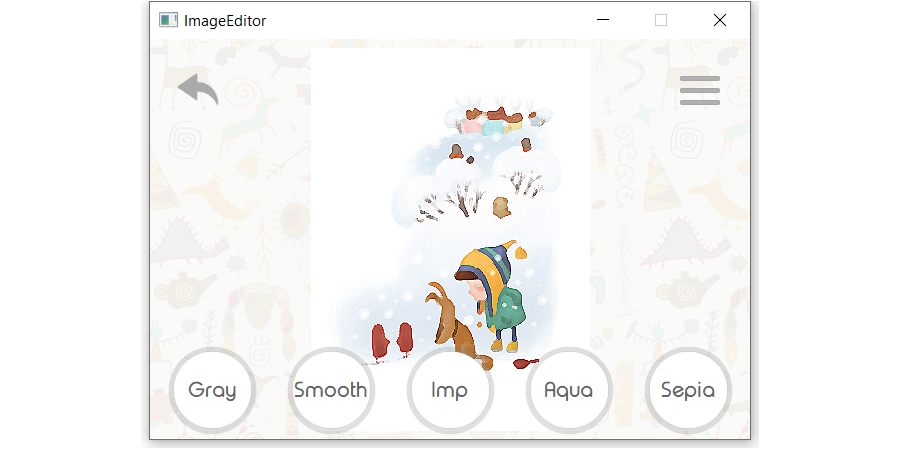
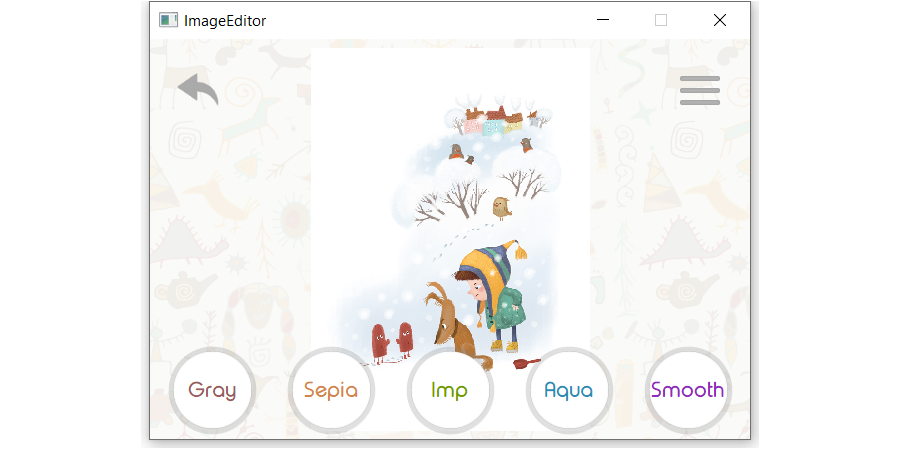
Screens and colors

diff --git a/Core/Filters/FiltersModule.cpp b/Core/Filters/FiltersModule.cpp
@@ -13,7 +13,7 @@ namespace
     using namespace ImageEditor::Core;
     IFilterInjector module() noexcept {
         return boost::di::make_injector(
-            boost::di::bind<IFilter* []>().to<GrayFilter, SmoothFilter, TessFilter, WatercolorFilter, SepiaFilter>(),
+            boost::di::bind<IFilter* []>().to<GrayFilter, SepiaFilter, TessFilter, WatercolorFilter, SmoothFilter>(),
             boost::di::bind<IFilter>().to<GrayFilter>(),
             boost::di::bind<IFilter>().named<class SmoothFilter>().to<SmoothFilter>(),
             boost::di::bind<IFilter>().named<class TessFilter>().to<TessFilter>(),

diff --git a/UI/Widgets/FiltersWidget.cpp b/UI/Widgets/FiltersWidget.cpp
@@ -24,7 +24,7 @@ static const char* c_filter_button_style_str = "QPushButton{ "
 "font-family: Typo Round Regular Demo;";
 
 static const char* c_color_str_arr[] = {
-    "color: #D6200C; }",
+    "color: rgb(150, 95, 95); }",
     "color: #D1854F; }",
     "color: #6F9B00; }",
     "color: #308BB2; }",
